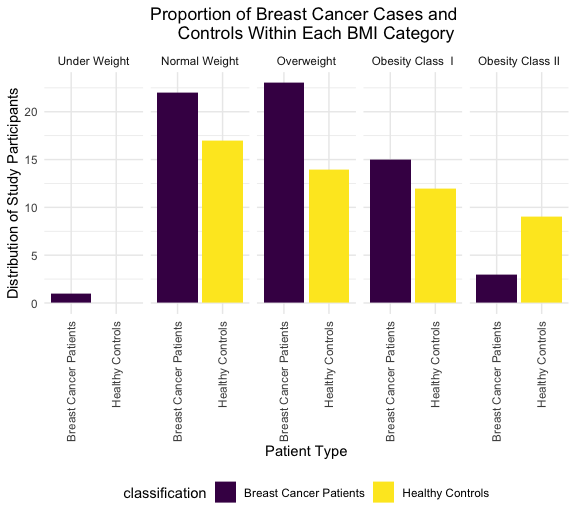
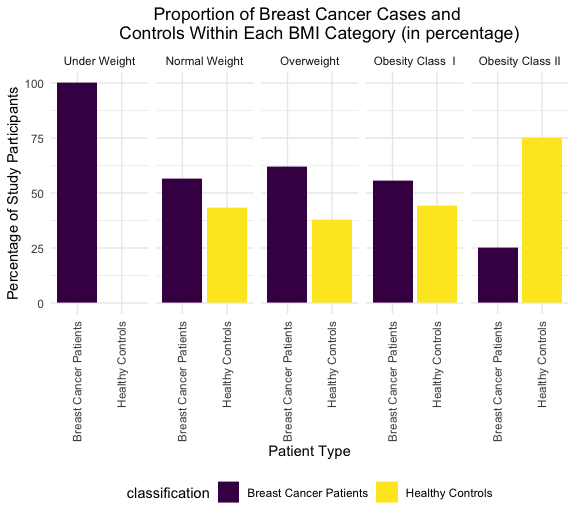
Fixed 3. Go to OH hours to go over 4 and 5 & figure out how to submit this

diff --git a/ML_HW1_jf3354.md b/ML_HW1_jf3354.md
@@ -112,30 +112,30 @@ the Obesity Class III BMI categories.
 
 #Note to self: referred to DS midterm
 
-dataclean = bcdata %>% 
+dataclean2 = bcdata %>% 
   mutate(classification = as.character(classification)) %>%
   mutate(classification = recode(classification,
                        "1" = "Healthy Controls",
                        "2" = "Breast Cancer Patients")) %>% 
   group_by(bmi_category, classification) %>%
-  summarize( 
-    total = n()
-    ) 
+  summarize(total = n()) %>%
+  mutate(proportion = total/sum(total)) %>% #the proportion in 
+  mutate(percentage = 100*proportion)
 ```
 
     ## `summarise()` has grouped output by 'bmi_category'. You can override using the `.groups` argument.
 
 ``` r
-bcdata_graphs <- dataclean %>%
-  ggplot(aes(x = classification, y = total, fill = classification)) +
+bcdata_graphs <- dataclean2 %>%
+  ggplot(aes(x = classification, y = percentage, fill = classification)) +
   geom_bar(stat = "identity") +
   scale_fill_viridis_d() +
   facet_grid(~bmi_category) +
   labs(
     title = "Proportion of Breast Cancer Cases and 
-    Controls Within Each BMI Category",
+    Controls Within Each BMI Category (in percentage)",
     x = "Patient Type",
-    y = "Distribution of Study Participants"
+    y = "Percentage of Study Participants"
   ) + theme(axis.text.x = element_text(angle = 90, vjust = 0.5, hjust = 1)) + theme(plot.title = element_text(hjust = 0.5)) + theme(legend.position = "bottom")
 
 bcdata_graphs
@@ -144,15 +144,12 @@ bcdata_graphs
 <img src="ML_HW1_jf3354_files/figure-gfm/unnamed-chunk-4-1.png" width="90%" />
 
 We see that in the underweight category, there is only one breast cancer
-patient and no healthy controls. For the Normal Weight, Overweight, and
-Obesity Class I categories, the breast cancer patients surpass the
-healthy controls. In the Obesity Class II group, there are more health
-controls in comparison to the breast cancer patients. There were no
-participants in the severly underweight and obesity class III group
-which was reflected in the graphs.
-
-To Do: make comments on the graph and message professor asking if she
-wants the number of patients and controls are within each bmi catgory
+patient (100%) and no healthy controls. For the Normal Weight,
+Overweight, and Obesity Class I categories, the breast cancer patients
+surpass the healthy controls. In the Obesity Class II group, there are
+more healthy controls in comparison to the breast cancer patients. There
+were no participants in the severely underweight and obesity class III
+group, which was reflected in the graphs.
 
 ## QUESTION 4
 
